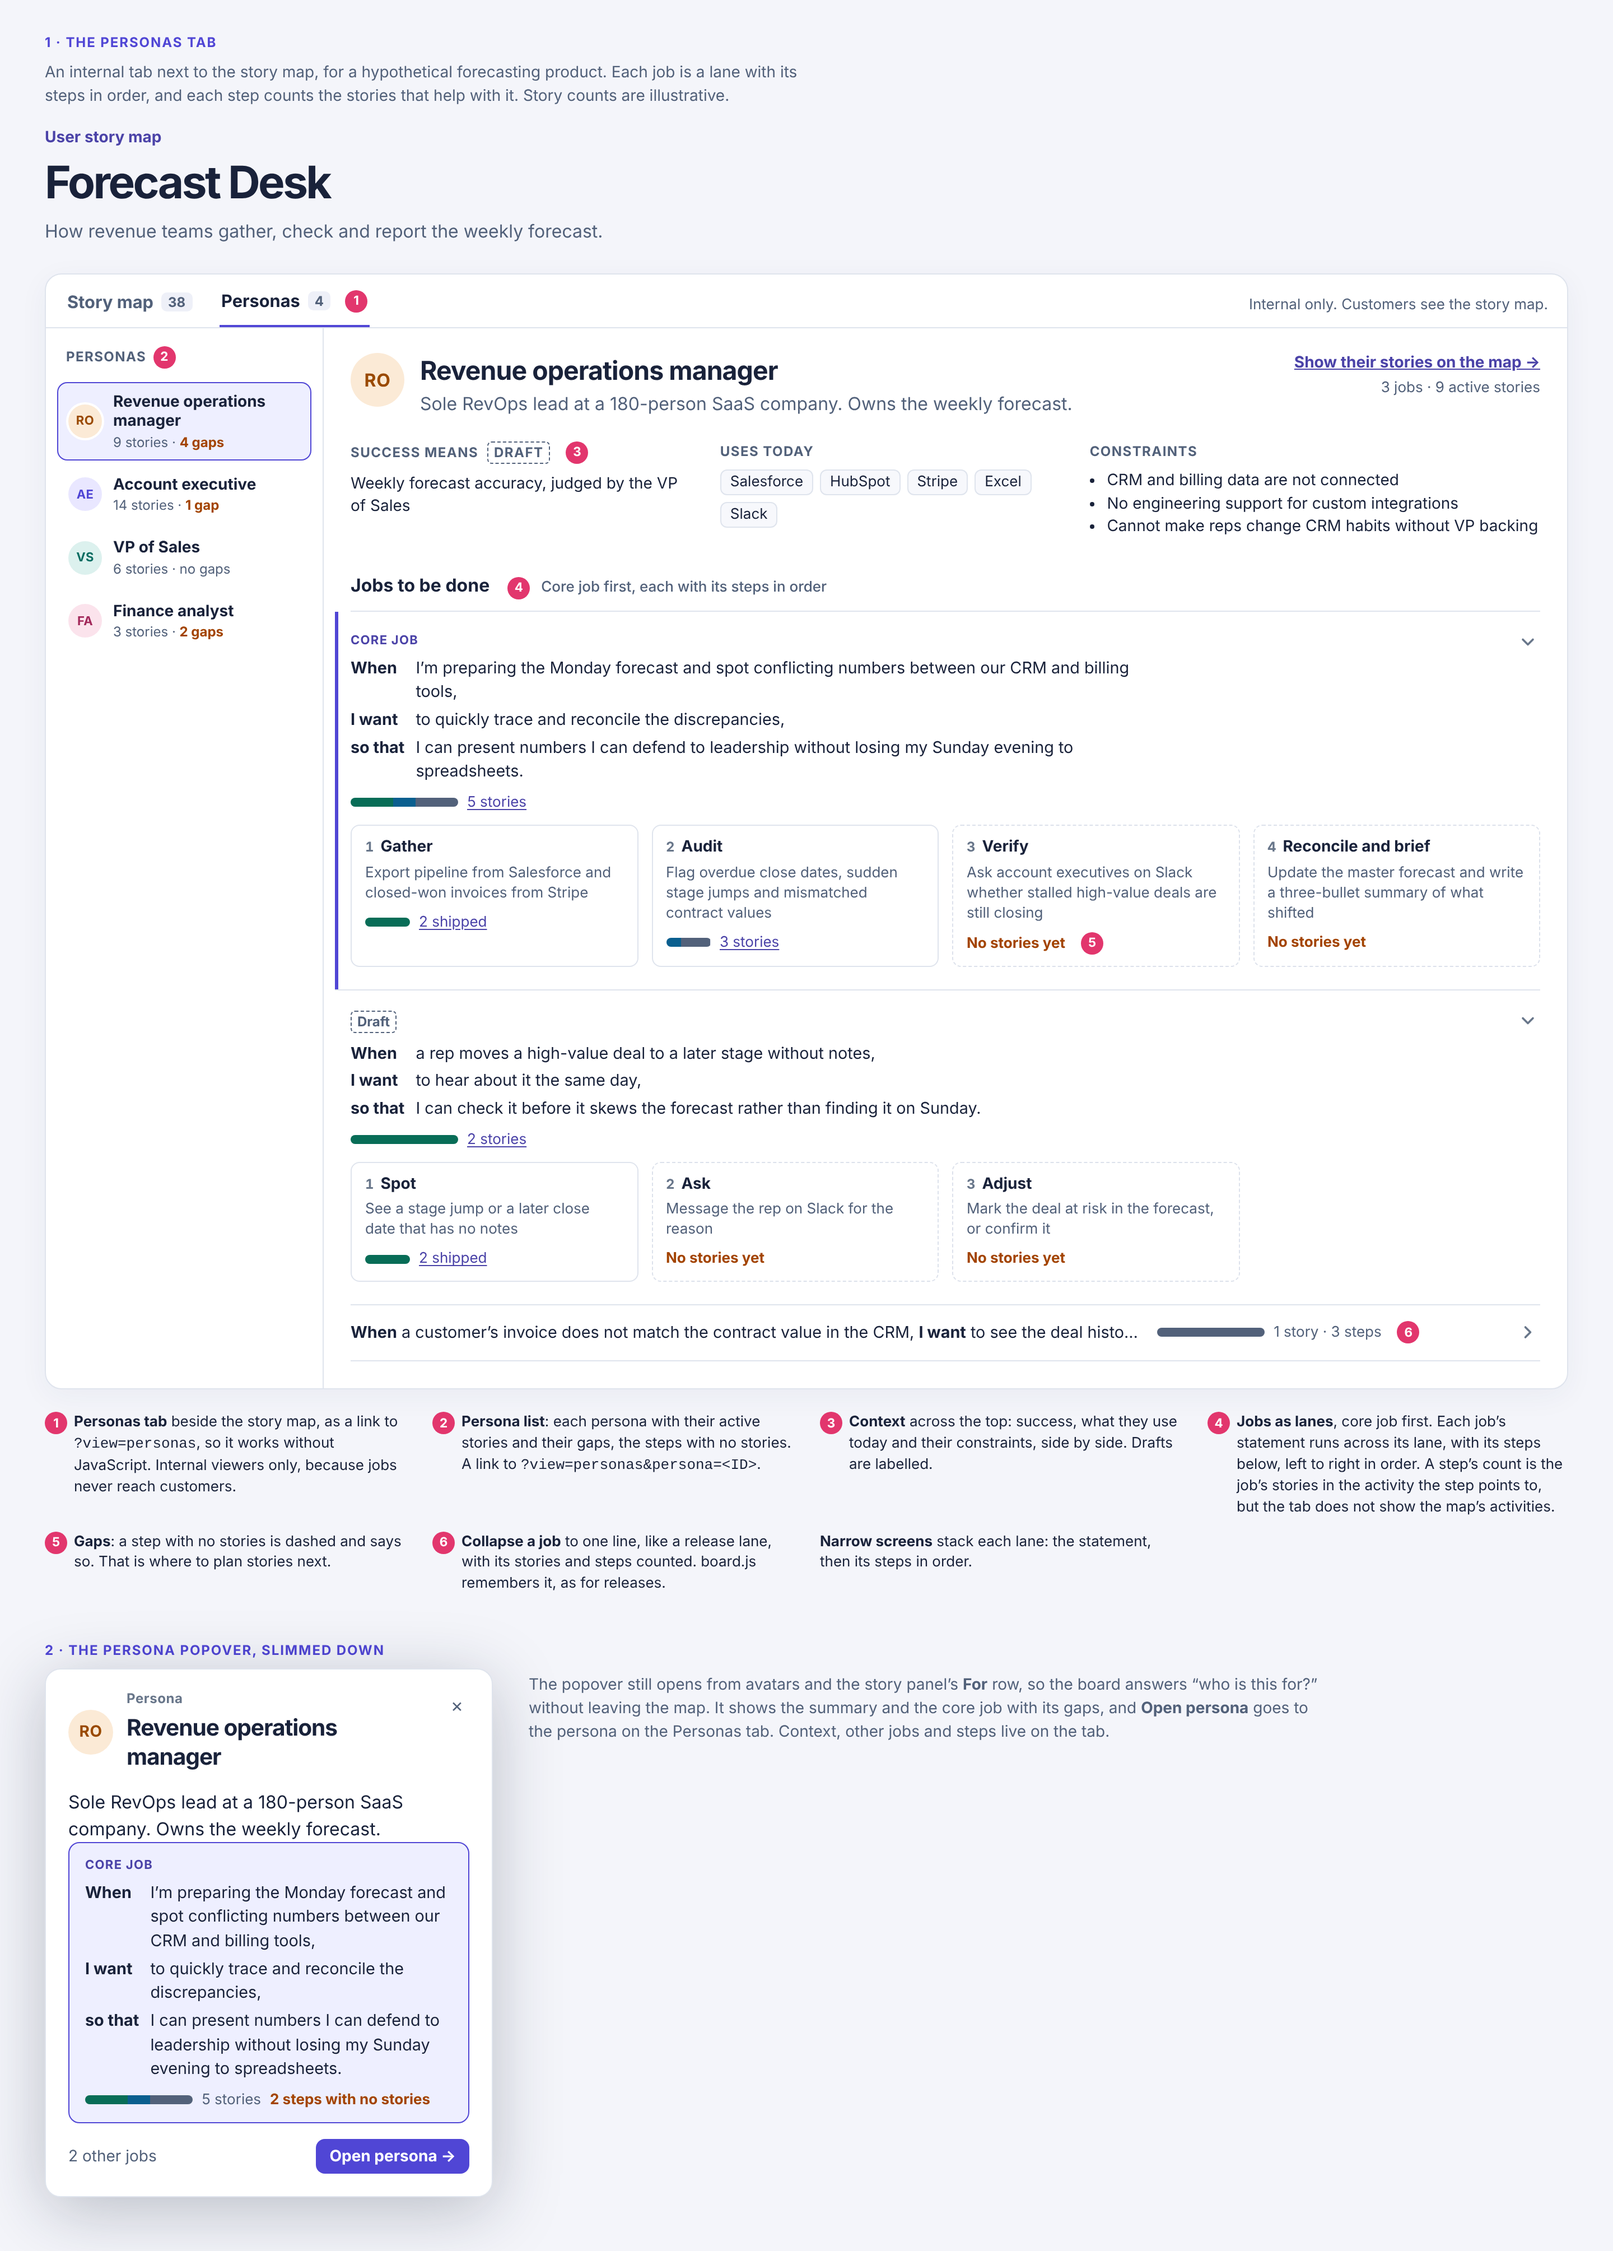
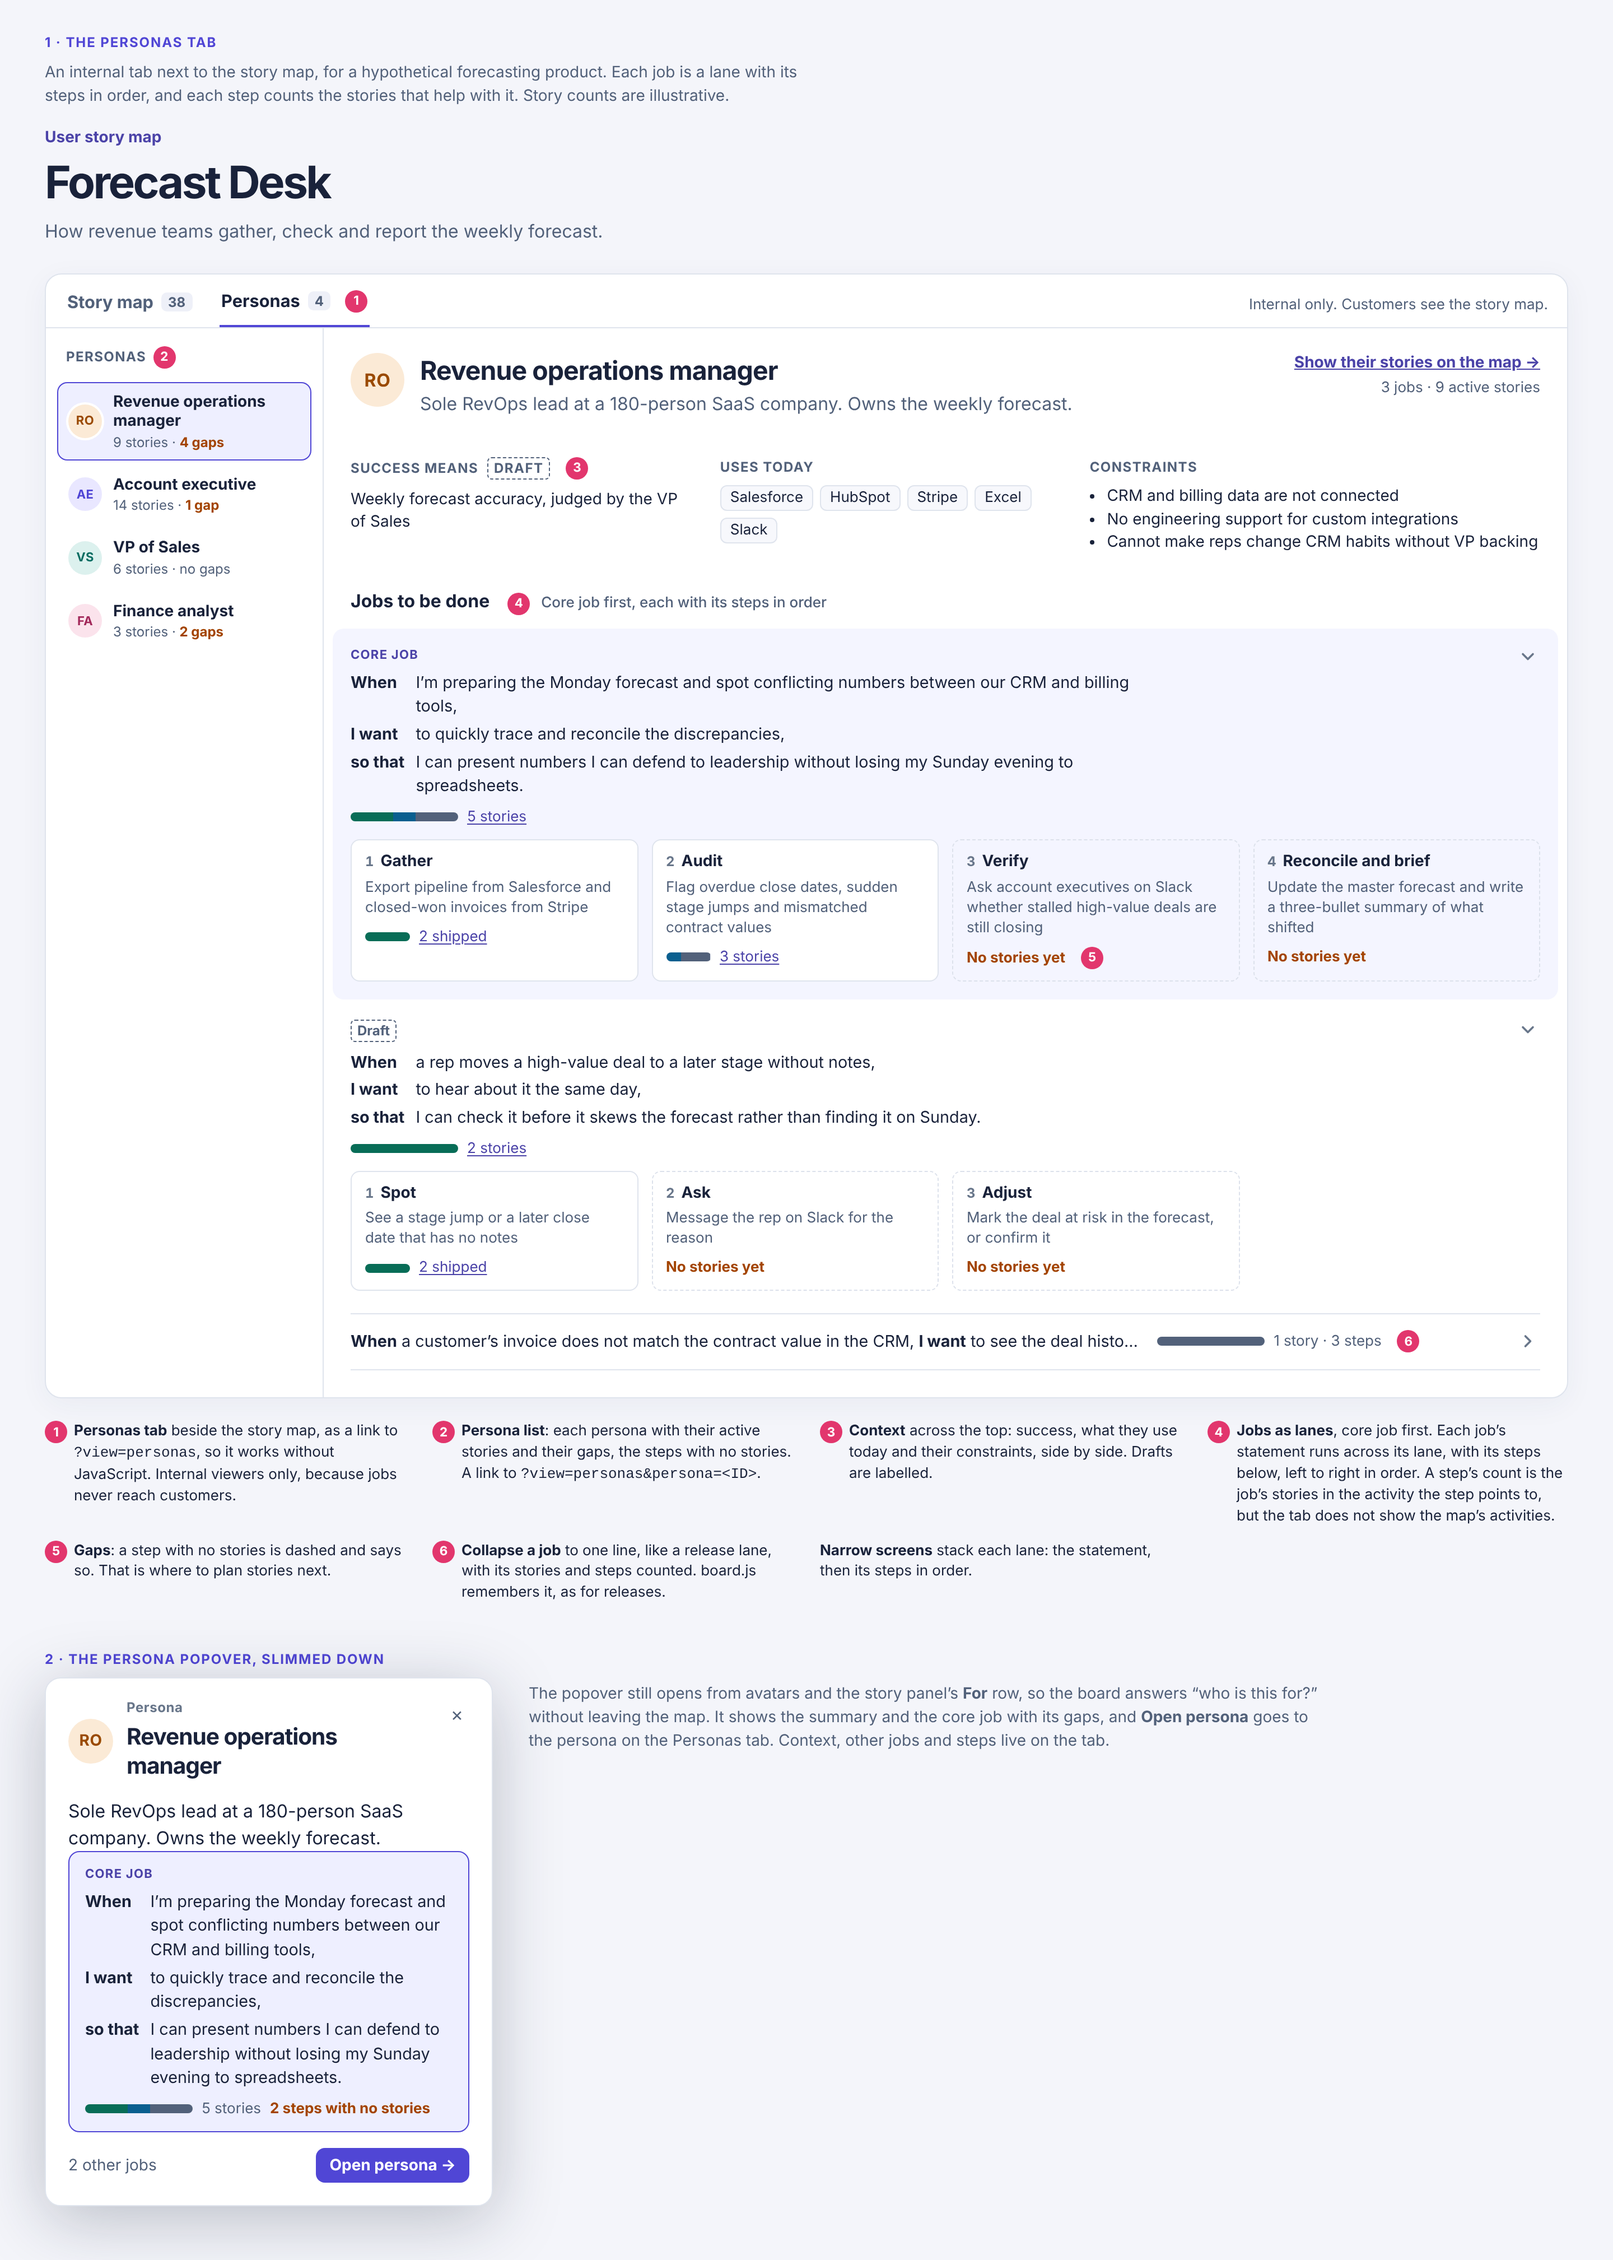
ESM-911: Tint the core job instead of edging it
Give the core job lane a light background in place of the accent line on
its left, and add space between the persona's title and their context.

Claude-Session: https://claude.ai/code/session_01Lq2MQSpe3eM9QABbsSvSfC

diff --git a/docs/plans/persona-page-mockup.html b/docs/plans/persona-page-mockup.html
@@ -49,7 +49,7 @@
   .esm-persona-title-end span { color: var(--esm-muted); font-size: .8125rem; }
 
   /* Context band */
-  .esm-context-band { display: grid; grid-template-columns: 1fr 1fr 1.35fr; gap: 32px; margin-bottom: 10px; }
+  .esm-context-band { display: grid; grid-template-columns: 1fr 1fr 1.35fr; gap: 32px; margin: 14px 0 10px; }
   .esm-context-card { display: grid; align-content: start; gap: 8px; font-size: .875rem; line-height: 1.45; }
   .esm-context-card h4 { display: flex; align-items: center; gap: 8px; margin: 0; color: var(--esm-muted); font-size: .75rem; font-weight: 750; letter-spacing: .06em; text-transform: uppercase; }
   .esm-context-card ul { margin: 0; padding-left: 1.1em; }
@@ -58,14 +58,12 @@
 
   /* Jobs as lanes, each with its steps in order.
      Kept quiet on purpose: no box around the section or each lane, lanes split by a rule,
-     the core job marked by an accent edge, and flat step cards with the count as the link. */
+     the core job on a light tint, and flat step cards with the count as the link. */
   .esm-section-title { display: flex; align-items: baseline; gap: 10px; margin: 0 0 10px; font-size: 1rem; font-weight: 700; }
   .esm-section-title span:not(.mock-callout) { color: var(--esm-muted); font-size: .8125rem; font-weight: 500; }
-  .esm-jobs-map { border-top: 1px solid var(--esm-line); }
   .esm-job-lane { position: relative; display: grid; gap: 12px; padding: 18px 0 20px; border-bottom: 1px solid var(--esm-line); }
   .esm-job-steps { display: grid; grid-template-columns: repeat(4, minmax(0, 1fr)); gap: 12px; }
-  .esm-job-lane[data-core] { padding-left: 14px; margin-left: -14px; box-shadow: inset 3px 0 0 var(--esm-accent); }
-  .esm-job-lane[data-core] .esm-job-cell { padding-left: 0; }
+  .esm-job-lane[data-core] { margin: 12px -16px 0; padding: 16px; border-bottom: 0; border-radius: 10px; background: color-mix(in srgb, var(--esm-activity-bg) 65%, var(--esm-paper)); }
   .esm-job-cell { position: relative; display: grid; align-content: start; gap: 8px; min-width: 0; padding-right: 36px; }
   .esm-job-label { color: var(--esm-accent-ink); font-size: .6875rem; font-weight: 750; letter-spacing: .06em; text-transform: uppercase; }
   .esm-lane-chevron { position: absolute; top: 0; right: 2px; color: var(--esm-faint); }
